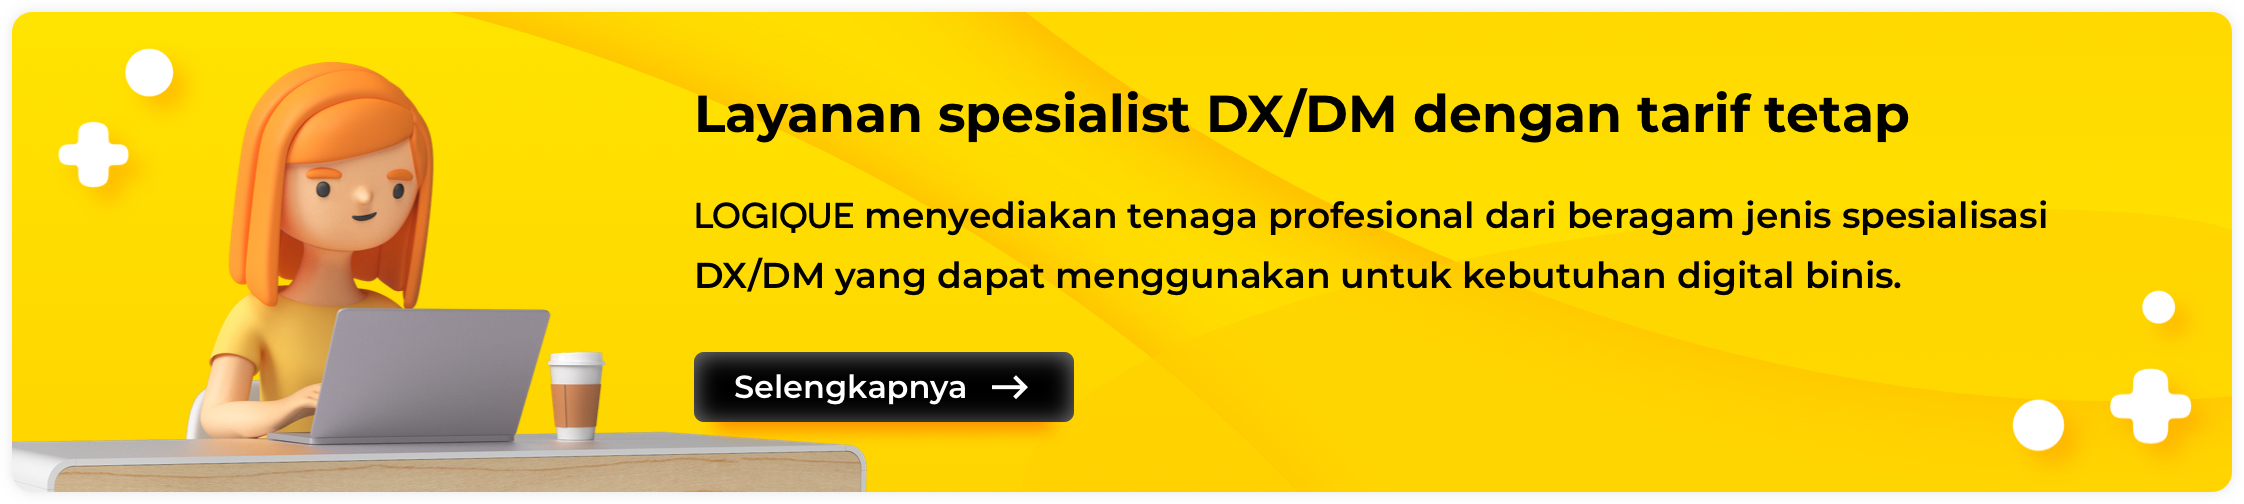
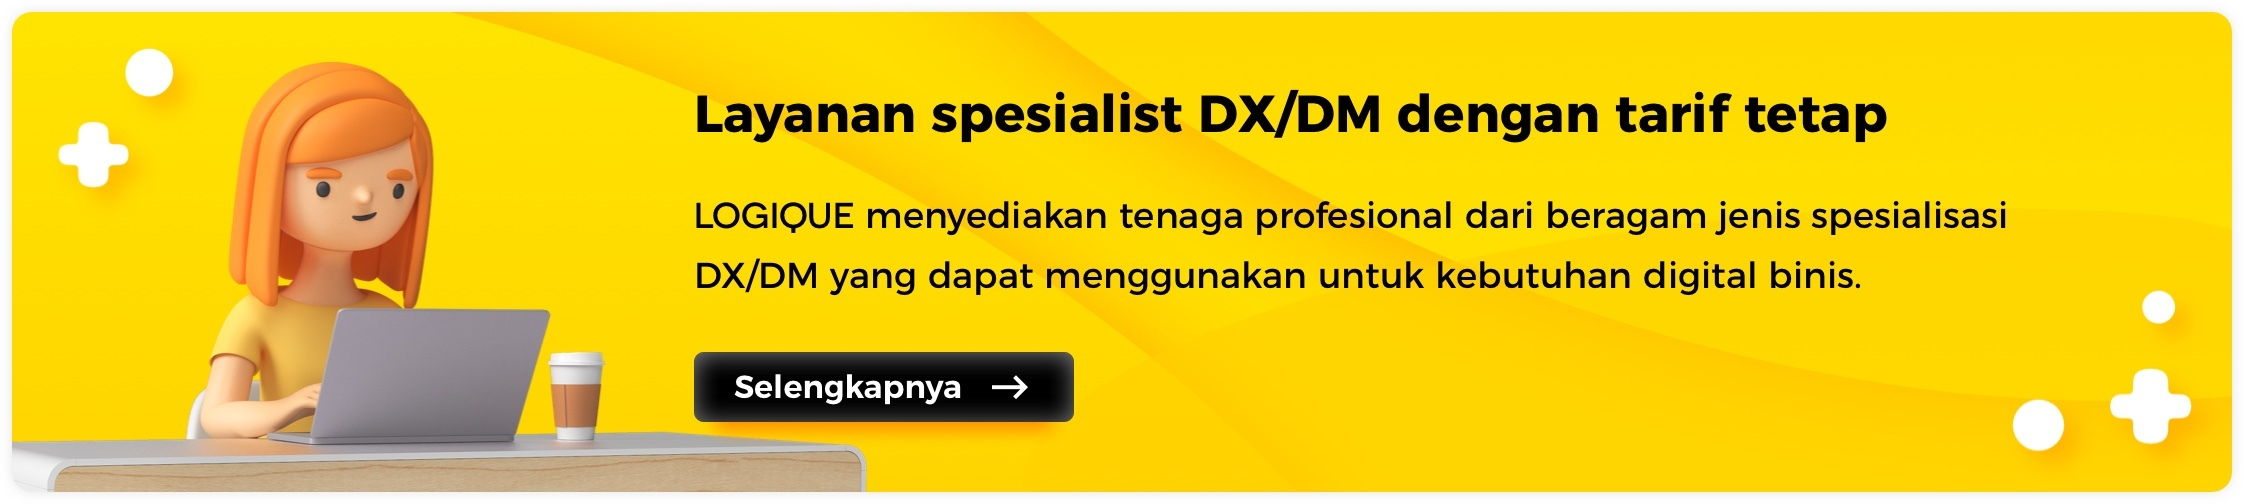
backup

diff --git a/en/index.php b/en/index.php
@@ -146,16 +146,7 @@
             <section class="bg--white">
                 <div class="container__">
                     <a href="/en/services/dx-dm-service.php">
-                        <picture>
-                            <!-- webp -->
-                            <source media="(max-width: 576px)" srcset="/img/bannerID.webp" type="image/webp">
-                            <source media="(min-width: 576px)" srcset="/img/bannerID.webp" type="webp">
-
-                            <!-- jpeg -->
-                            <source media="(max-width: 576px)" srcset="/img/bannerID.png" type="image/jpeg">
-                            <source media="(min-width: 576px)" srcset="/img/bannerID.png" type="image/jpeg">
-                            <img srcset="/img/bannerID.png 576w" sizes="(max-width: 576px) 576px" src="/img/dx-dm-banner-id.jpg" alt="" class="img-responsive" style="width: 100%;">
-                        </picture>
+                        <img srcset="/img/home/ENBanner.jpg 576w" sizes="(max-width: 576px) 576px" src="/img/home/ENBanner.jpg" alt="" class="img-responsive" style="width: 100%;">
                     </a>
                 </div>
             </section>

diff --git a/index.php b/index.php
@@ -192,16 +192,7 @@ ini_set('display_error', 0);
       <section class="bg--white">
         <div class="container__">
           <a href="/layanan/dx-dm-service.php">
-            <picture>
-              <!-- webp -->
-              <source media="(max-width: 576px)" srcset="/img/bannerID.webp" type="image/webp">
-              <source media="(min-width: 576px)" srcset="/img/bannerID.webp" type="webp">
-
-              <!-- jpeg -->
-              <source media="(max-width: 576px)" srcset="/img/bannerID.png" type="image/jpeg">
-              <source media="(min-width: 576px)" srcset="/img/bannerID.png" type="image/jpeg">
-              <img srcset="/img/bannerID.png 576w" sizes="(max-width: 576px) 576px" src="/img/dx-dm-banner-id.jpg" alt="" class="img-responsive" style="width: 100%;">
-            </picture>
+            <img srcset="/img/home/IDBanner.jpg 576w" sizes="(max-width: 576px) 576px" src="/img/home/ENBanner.jpg" alt="" class="img-responsive" style="width: 100%;">
           </a>
         </div>
       </section>

diff --git a/en/services/penetration-test.php b/en/services/penetration-test.php
@@ -1114,7 +1114,7 @@
         <section class="layanan-lain">
         <div class="container__">
             <div class="title">
-            <h4 class="section-title"><b>Optional Services</b></h4>
+            <h4 class="section-title"><b>Optional Web Security Services</b></h4>
             <img src="/img/dtech.png" /><br>
             <p>
                 LOGIQUE has collaborated with PT Dtechcorp Konsultindo Prima (Dtechcorp Consulting), an experienced consulting agency registered with the BSSN (National Cyber & Crypto Agency) and KOMINFO (Ministry of Communication and Information Technology), so as to meet the needs & standards of the POJK-based information technology (IT) security auditing services. We also provide consultation services for any clients aiming to obtain an ISO certification.

diff --git a/layanan/penetration-test.php b/layanan/penetration-test.php
@@ -1541,7 +1541,7 @@
         <section class="layanan-lain">
         <div class="container__">
             <div class="title">
-            <h4 class="section-title"><b>Layanan Lain</b></h4>
+            <h4 class="section-title"><b>Layanan Keamanan Web lainnya</b></h4>
             <img src="/img/dtech.png" /><br>
             <p>
                 LOGIQUE bekerjasama dengan PT Dtechcorp Konsultindo Prima (Dtechcorp Consulting), sebuah lembaga konsultan berpengalaman yang telah terdaftar di BSSN (Badan Siber & Sandi Negara) dan KOMINFO (Kementrian Komunikasi dan Informatika), untuk memenuhi kebutuhan layanan audit keamanan teknologi informasi (TI) berbasis POJK. Kami juga menyediakan jasa konsultasi persiapan dan pendampingan Sertifikasi ISO bagi setiap perusahaan yang membutuhkan. 
